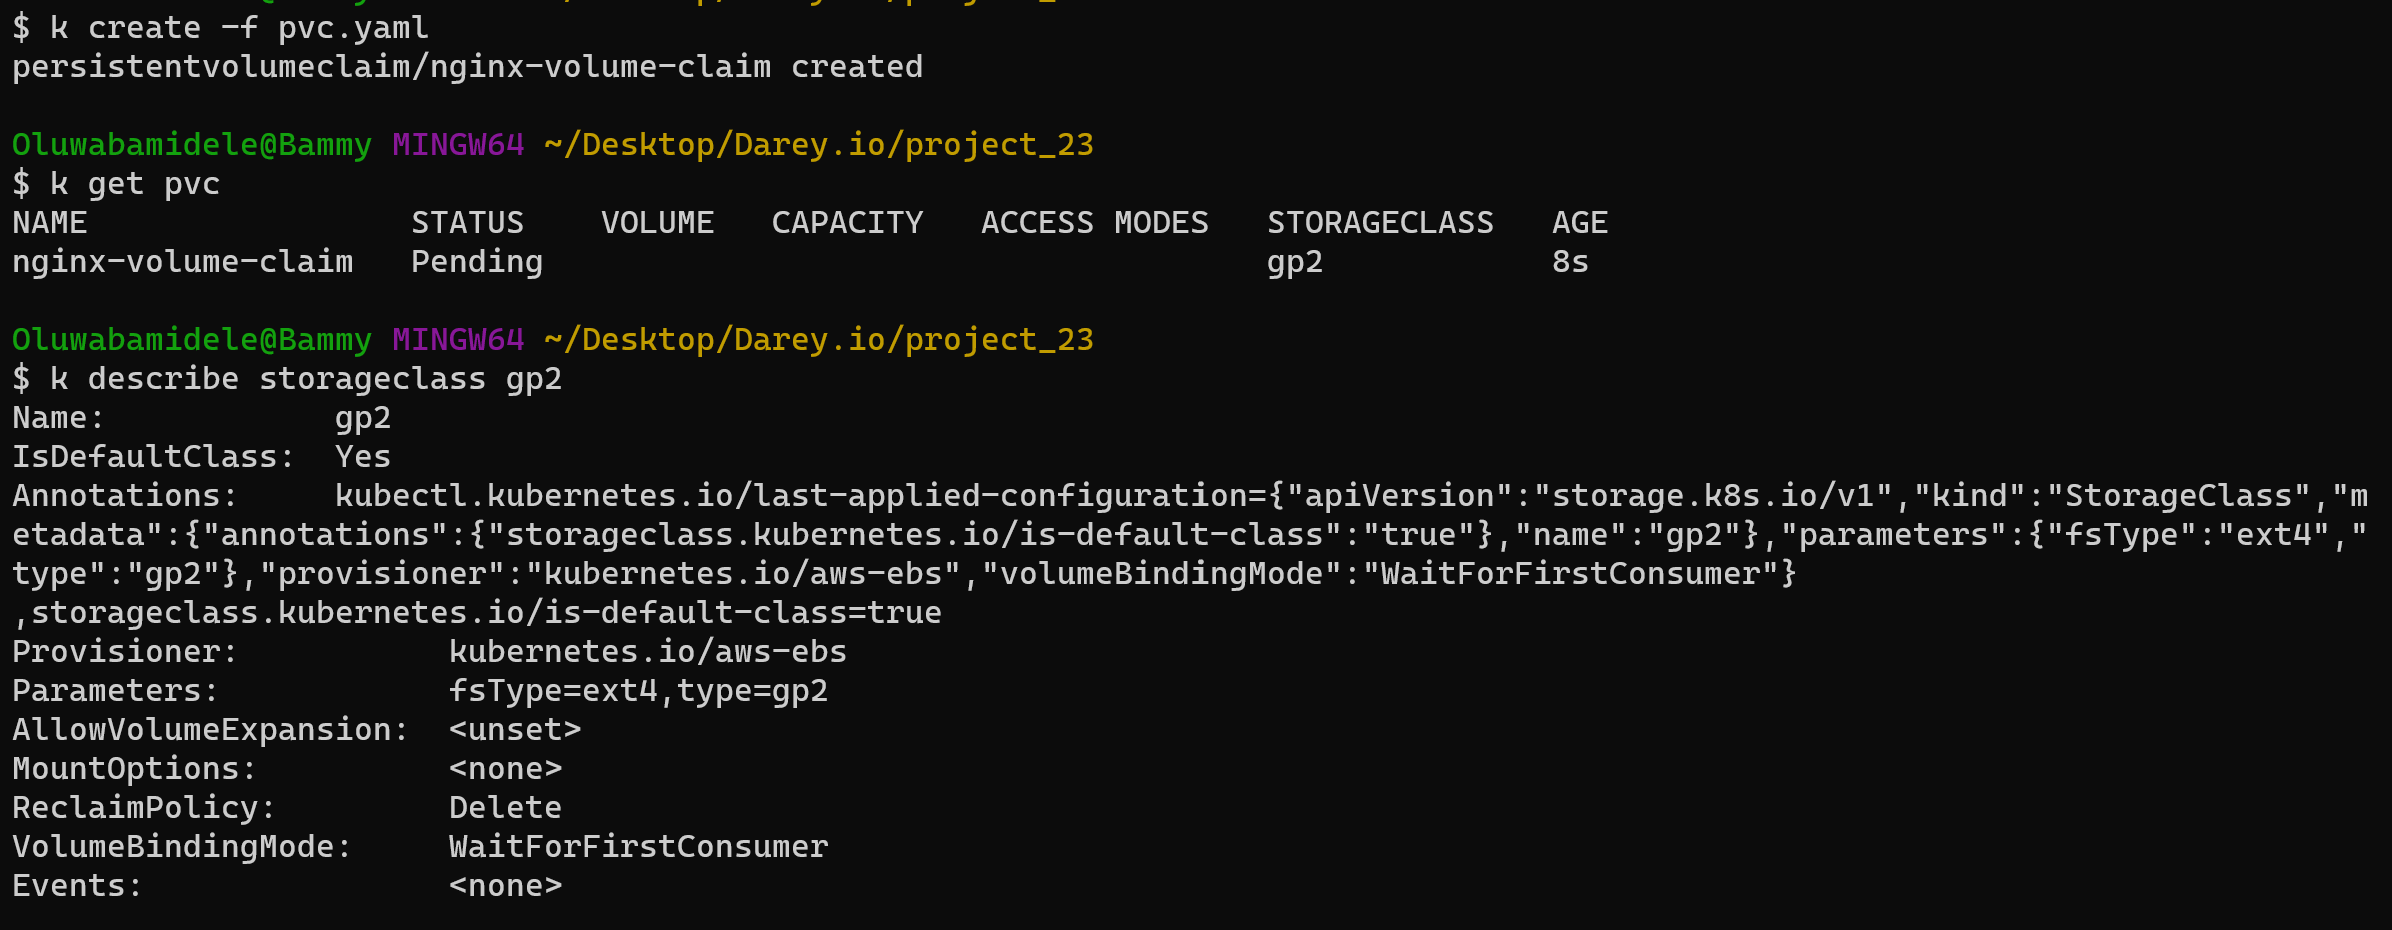
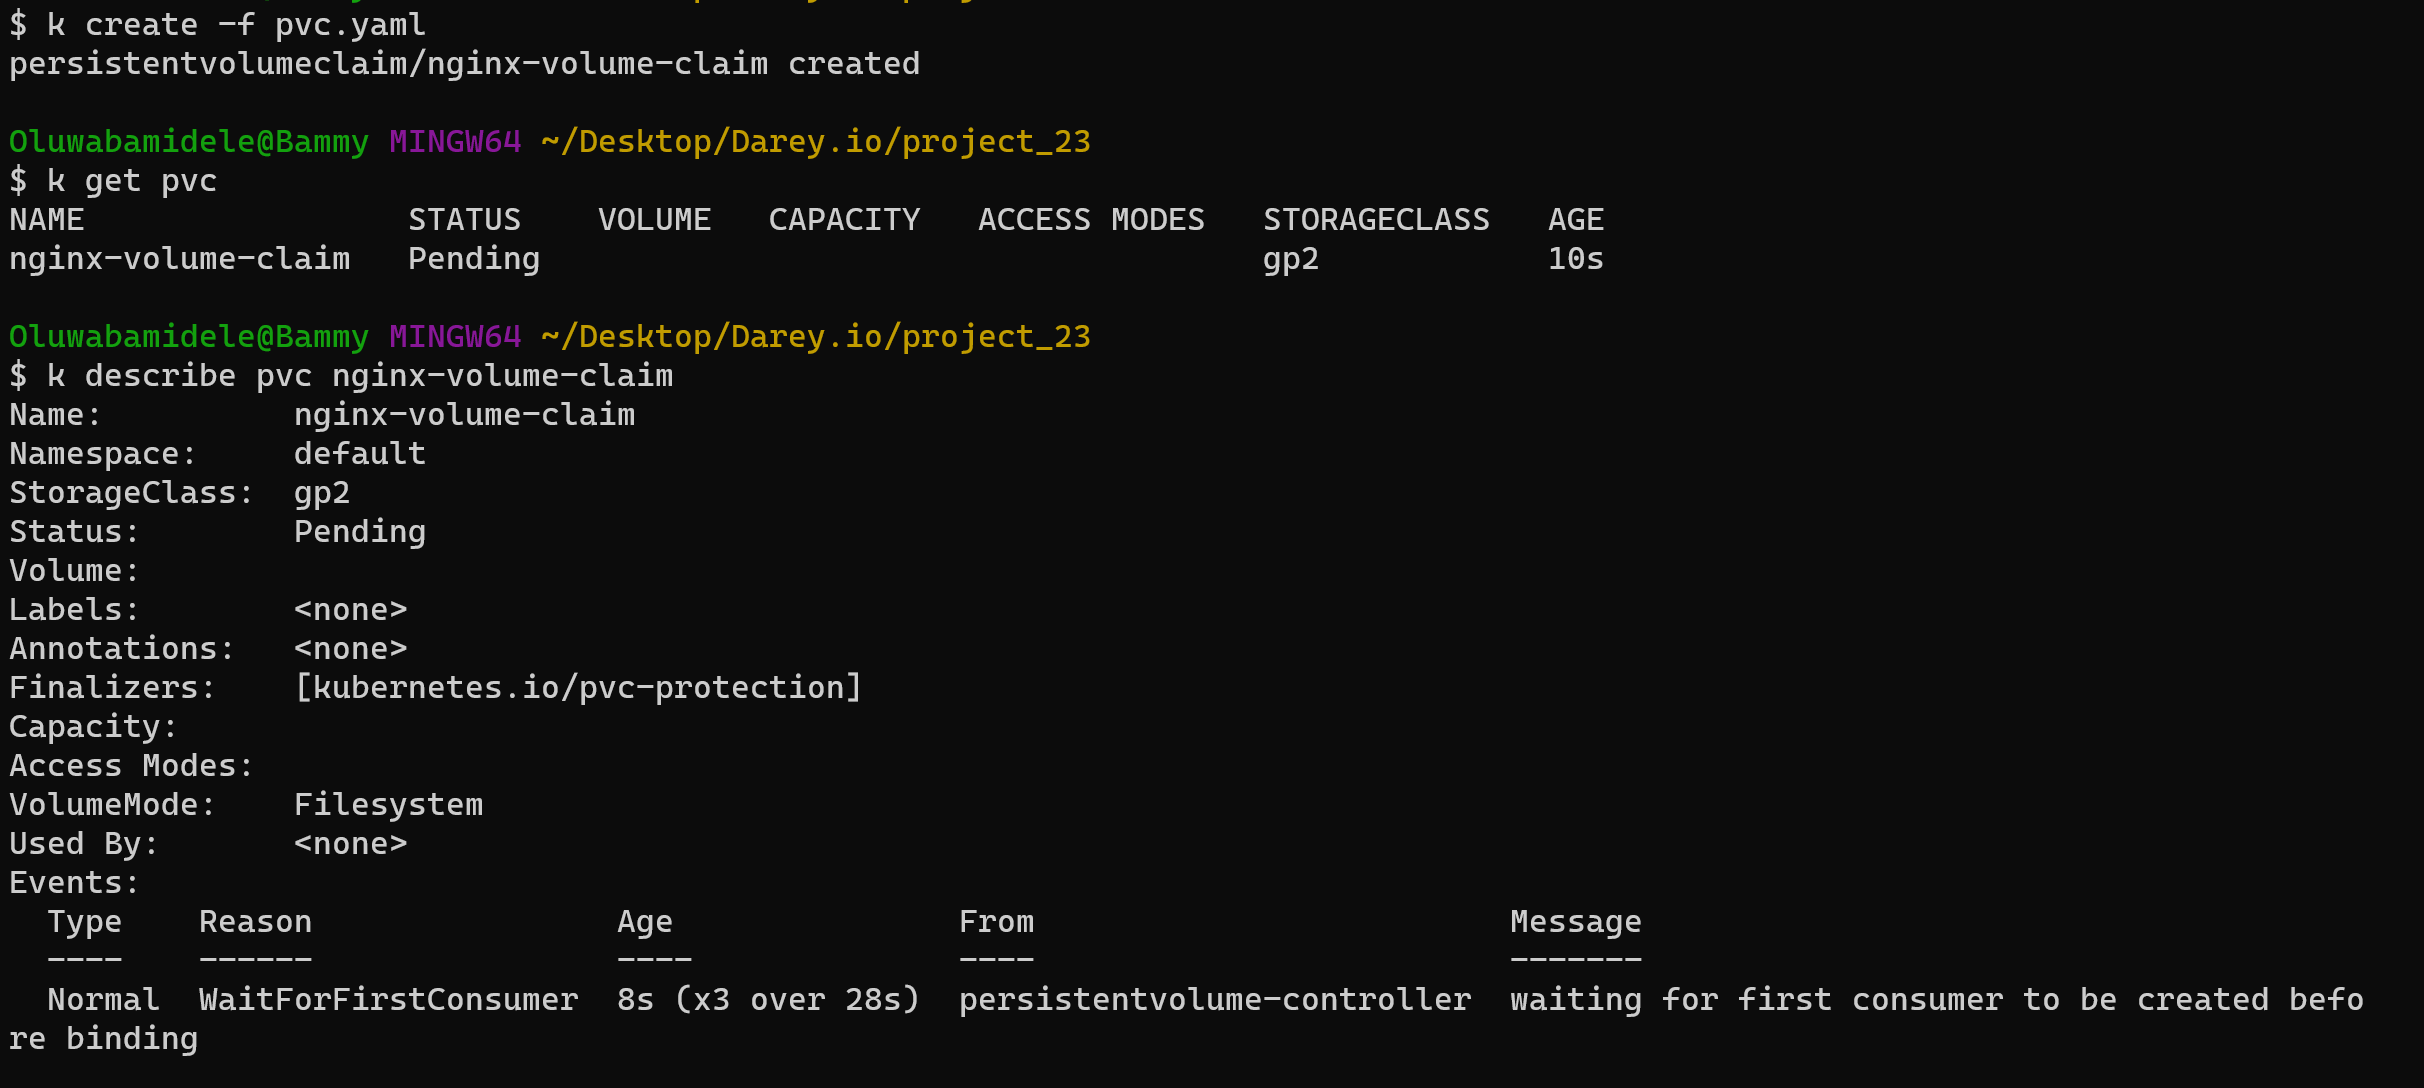
updated

diff --git a/project_23.md b/project_23.md
@@ -195,9 +195,14 @@ spec:
 Apply the manifest file and view status
 
 ```bash
+# Create PVC
 k create -f pvc.yaml
 
+# view the status of PVC
 k get pvc
+
+# Get more details about PVC
+k describe pvc <pvcname>
 ```
 
 ![nginx](./images/11.png)
@@ -237,4 +242,121 @@ spec:
           claimName: nginx-volume-claim
 ```
 
-## configMap
+Verify the nginx pod is created with the volume created with the PVC.
+
+![nginx](./images/12.png)
+
+View dynamically created volume in AWS console
+
+![nginx](./images/13.png)
+
+Now the storage path "/tmp/oayanda" would persist across the pods in the deployment.
+
+## configMaps
+
+Using configMaps for persistence is not something you would consider for data storage. Rather it is a way to manage configuration files and ensure they are not lost as a result of Pod replacement.
+
+- Remove the volumeMounts and PVC sections of the manifest and use kubectl to apply the configuration.
+- port forward the service and ensure that you are able to see the "Welcome to nginx" page.
+- exec into the running container and keep a copy of the index.html file somewhere. For example.
+
+```bash
+k exec -it <pod-name> bash
+```
+![nginx](./images/14.png)
+
+According to the official documentation of configMaps, A ConfigMap is an API object used to store non-confidential data in key-value pairs. Pods can consume ConfigMaps as environment variables, command-line arguments, or as configuration files in a volume.
+
+Here, We will use configMap to create a file in a volume.
+
+create and apply the configMap manifest file 
+
+```bash
+cat <<EOF | tee ./nginx-configmap.yaml
+apiVersion: v1
+kind: ConfigMap
+metadata:
+  name: website-index-file
+data:
+  # file to be mounted inside a volume
+  index-file: |
+    <!DOCTYPE html>
+    <html>
+    <head>
+    <title>Welcome to nginx!</title>
+    <style>
+    html { color-scheme: light dark; }
+    body { width: 35em; margin: 0 auto;
+    font-family: Tahoma, Verdana, Arial, sans-serif; }
+    </style>
+    </head>
+    <body>
+    <h1>Welcome to nginx!</h1>
+    <p>If you see this page, the nginx web server is successfully installed and
+    working. Further configuration is required.</p>
+
+    <p>For online documentation and support please refer to
+    <a href="http://nginx.org/">nginx.org</a>.<br/>
+    Commercial support is available at
+    <a href="http://nginx.com/">nginx.com</a>.</p>
+
+    <p><em>Thank you for using nginx.</em></p>
+    </body>
+    </html>
+EOF
+```
+
+Update the deployment file to use the configmap in the volumeMounts section
+
+```bash
+cat <<EOF | tee ./nginx-deploy.yaml
+apiVersion: apps/v1
+kind: Deployment
+metadata:
+  name: nginx-deployment
+  labels:
+    tier: frontend
+spec:
+  replicas: 1
+  selector:
+    matchLabels:
+      tier: frontend
+  template:
+    metadata:
+      labels:
+        tier: frontend
+    spec:
+      containers:
+      - name: nginx
+        image: nginx:latest
+        ports:
+        - containerPort: 80
+        volumeMounts:
+          - name: config
+            mountPath: /usr/share/nginx/html
+            readOnly: true
+      volumes:
+      - name: config
+        configMap:
+          name: website-index-file
+          items:
+          - key: index-file
+            path: index.html
+EOF
+```
+
+Now the index.html file is no longer ephemeral because it is using a configMap that has been mounted onto the filesystem. This is now evident when you exec into the pod and list the /usr/share/nginx/html directory.
+
+![nginx](./images/15.png)
+
+Edit the config manifest file and updete deployment pod
+![nginx](./images/16.png)
+View in browser
+
+```bash
+k port-forward deployment.apps/nginx-deployment 8090:80
+```
+
+![nginx](./images/18.png)
+
+![nginx](./images/17.png)
